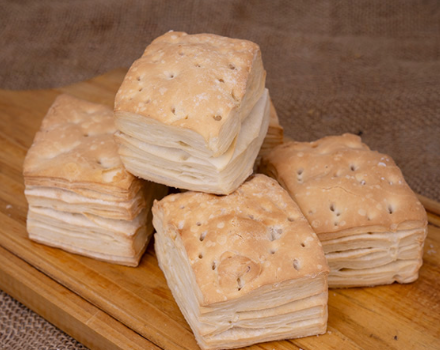
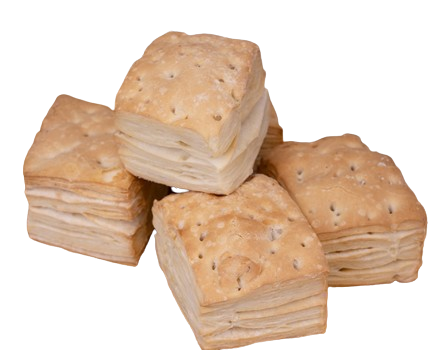
Carrusel
Añadi carruseles en la pagina principal, con varias imagenes nuevas, y saque el fondo de todas las imagenes

diff --git a/Index.html b/Index.html
@@ -4,6 +4,7 @@
     <meta charset="UTF-8">
     <meta name="viewport" content="width=device-width, initial-scale=1.0">
     <title>Cafe con Aroma</title>
+    <link href="https://cdn.jsdelivr.net/npm/bootstrap@5.3.8/dist/css/bootstrap.min.css" rel="stylesheet" integrity="sha384-sRIl4kxILFvY47J16cr9ZwB07vP4J8+LH7qKQnuqkuIAvNWLzeN8tE5YBujZqJLB" crossorigin="anonymous">
     <link rel="stylesheet" href="Estilos/style.css">
     <script src="Java/tabla.js" defer></script>
 </head>
@@ -38,7 +39,19 @@
                 <br>
                 <h1>Café Espresso</h1>
                 <br>
-                <img src="Estilos/Imagenes/Cafe.png" alt="" height="300px">
+                <div id="carouselExampleSlidesOnly" class="carousel slide" data-bs-ride="carousel" data-bs-interval="3000">
+                    <div class="carousel-inner">
+                        <div class="carousel-item active">
+                            <img class="d-block w-100" src="Estilos/Imagenes/Espresso.png" alt="First slide">
+                        </div>
+                        <div class="carousel-item">
+                            <img class="d-block w-100" src="Estilos/Imagenes/Espresso2.png" alt="Second slide">
+                        </div>
+                        <div class="carousel-item">
+                            <img class="d-block w-100" src="Estilos/Imagenes/Espresso3.png" alt="Third slide">
+                        </div>
+                    </div>
+                </div>
                 <br>
                 <h2>Un café intenso y concentrado, preparado con granos de alta calidad. Perfecto para los amantes del café fuerte y aromático.</h2>
             </article>
@@ -47,7 +60,19 @@
                 <br>
                 <h1>Medialunas</h1>
                 <br>
-                <img src="Estilos/Imagenes/Medialunas.png" alt="" height="300px">
+                <div id="carouselMedialunas" class="carousel slide" data-bs-ride="carousel" data-bs-interval="3000">
+                    <div class="carousel-inner">
+                        <div class="carousel-item active">
+                            <img class="d-block w-100" src="Estilos/Imagenes/Medialunas.png" alt="Medialunas clásicas">
+                        </div>
+                        <div class="carousel-item">
+                            <img class="d-block w-100" src="Estilos/Imagenes/Medialunas2.png" alt="Medialunas con azúcar">
+                        </div>
+                        <div class="carousel-item">
+                            <img class="d-block w-100" src="Estilos/Imagenes/Medialunas3.png" alt="Medialunas recién horneadas">
+                        </div>
+                    </div>
+                </div>
                 <br>
                 <h2>Deliciosas medialunas recién hechas, ideales para acompañar tu café en la mañana. Hechas con mantequilla y masa hojaldra.</h2>
             </article>
@@ -56,7 +81,19 @@
                 <br>
                 <h1>Café Cappuccino</h1>
                 <br>
-                <img src="Estilos/Imagenes/Cappuchino.png" alt="" height="300px">
+                <div id="carouselCappuccino" class="carousel slide" data-bs-ride="carousel" data-bs-interval="3000">
+                    <div class="carousel-inner">
+                        <div class="carousel-item active">
+                            <img class="d-block w-100" src="Estilos/Imagenes/Cappuchino.png" alt="Cappuccino clásico">
+                        </div>
+                        <div class="carousel-item">
+                            <img class="d-block w-100" src="Estilos/Imagenes/Cappuchino2.png" alt="Cappuccino con cacao">
+                        </div>
+                        <div class="carousel-item">
+                            <img class="d-block w-100" src="Estilos/Imagenes/Cappuchino3.png" alt="Cappuccino con espuma">
+                        </div>
+                    </div>
+                </div>
                 <br>
                 <h2>Un café cremoso y aromático, preparado con espresso, leche vaporizada y una capa de espuma. Perfecto para comenzar tu día con estilo.</h2>
             </article>
@@ -82,6 +119,7 @@
         </section>
         <br>
     </main>
+    <script src="https://cdn.jsdelivr.net/npm/bootstrap@5.3.8/dist/js/bootstrap.bundle.min.js" integrity="sha384-FKyoEForCGlyvwx9Hj09JcYn3nv7wiPVlz7YYwJrWVcXK/BmnVDxM+D2scQbITxI" crossorigin="anonymous"></script>
 </body>
 <footer id="contacto" style="text-align: center;">
         <p>Direccion: Calle 123</p>

diff --git a/Pedido.html b/Pedido.html
@@ -8,12 +8,15 @@
 			content="width=device-width, initial-scale=1.0"
 		/>
 		<title>Tienda</title>
+		<link href="https://cdn.jsdelivr.net/npm/bootstrap@5.3.8/dist/css/bootstrap.min.css" rel="stylesheet" integrity="sha384-sRIl4kxILFvY47J16cr9ZwB07vP4J8+LH7qKQnuqkuIAvNWLzeN8tE5YBujZqJLB" crossorigin="anonymous">
 		<link rel="stylesheet" href="Estilos/style-pe.css" />
 	</head>
 	<body>
 		<header>
 			<h1>Tienda</h1>
-
+			<br>
+			<button><a href="index.html">Volver</a></button>
+			<br>
 			<div class="container-icon">
 				<div class="container-cart-icon">
 					<svg
@@ -63,6 +66,7 @@
 					<div class="cart-total hidden">
 						<h3>Total:</h3>
 						<span class="total-pagar">$200</span>
+						<button class="btn-pay">Pagar</button>
 					</div>
 					<p class="cart-empty">El carrito está vacío</p>
 				</div>
@@ -99,7 +103,7 @@
 			<div class="item">
 				<figure>
 					<img
-						src="Estilos/Imagenes/Medialunas.png"
+						src="Estilos/Imagenes/Medialunas2.png"
 						alt="producto"
 					/>
 				</figure>
@@ -125,7 +129,7 @@
 			<div class="item">
 				<figure>
 					<img
-						src="Estilos/Imagenes/Facturas.jpg"
+						src="Estilos/Imagenes/Facturas.png"
 						alt="producto"
 					/>
 				</figure>
@@ -138,5 +142,6 @@
 		</div>
 
 		<script src="Java/carrito.js"></script>
+		 <script src="https://cdn.jsdelivr.net/npm/bootstrap@5.3.8/dist/js/bootstrap.bundle.min.js" integrity="sha384-FKyoEForCGlyvwx9Hj09JcYn3nv7wiPVlz7YYwJrWVcXK/BmnVDxM+D2scQbITxI" crossorigin="anonymous"></script>
 	</body>
 </html>

diff --git a/Estilos/style-pe.css b/Estilos/style-pe.css
@@ -149,7 +149,7 @@ footer{
     justify-content: center;
     align-items: center;
     padding: 20px 0;
-    gap: 20px;
+    gap: 15px;
     background-color: #c2ab96;
     border-top: 2px solid #6b4f32;
 }
@@ -158,6 +158,21 @@ footer{
     font-size: 20px;
     font-weight: 700;
     color: #2f1b0c;
+}
+
+.btn-pay{
+    background-color: #6b4f32;
+    color: #fff;
+    border: none;
+    border-radius: 8px;
+    padding: 10px 15px;
+    font-weight: 700;
+    cursor: pointer;
+    transition: background-color 0.3s ease;
+}
+
+.btn-pay:hover{
+    background-color: #4d3722;
 }
 
 .total-pagar{
@@ -256,4 +271,20 @@ footer{
 
 .hidden{
     display: none;
+}
+
+button a{
+    text-decoration: none;
+    color: #2f1b0c;
+    font-weight: bold;
+}
+button a:hover{
+    color: white;
+}
+button{
+    background-color: #c2ab96;
+    border: none;
+    padding: 10px 20px;
+    border-radius: 5px;
+    cursor: pointer;
 }

diff --git a/Estilos/style.css b/Estilos/style.css
@@ -42,6 +42,17 @@ nav a{
     border-radius: 15px;
     background-color: rgb(218, 192, 168, 0.7); 
 }
+.carousel {
+    max-width: 600px;
+    margin: 0 auto;
+    border-radius: 12px;
+    overflow: hidden;
+}
+.carousel-item img {
+    height: 380px;
+    width: 100%;
+    object-fit: cover;
+}
 .nosotros{
     background-color: rgb(218, 192, 168, 0.7); 
     border-radius: 15px;
@@ -129,4 +140,8 @@ button:hover{
     background-color: #a68c7b;
     color: white;
     cursor: pointer;
+}
+div img{
+    height: 300px;
+    width:auto
 }

diff --git a/Java/carrito.js b/Java/carrito.js
@@ -23,6 +23,15 @@ const countProducts = document.querySelector('#contador-productos');
 
 const cartEmpty = document.querySelector('.cart-empty');
 const cartTotal = document.querySelector('.cart-total');
+const btnPay = document.querySelector('.btn-pay');
+
+btnPay.addEventListener('click', () => {
+	if (!allProducts.length) return;
+
+	alert('¡Gracias por tu compra!');
+	allProducts = [];
+	showHTML();
+});
 
 productsList.addEventListener('click', e => {
 	if (e.target.classList.contains('btn-add-cart')) {
